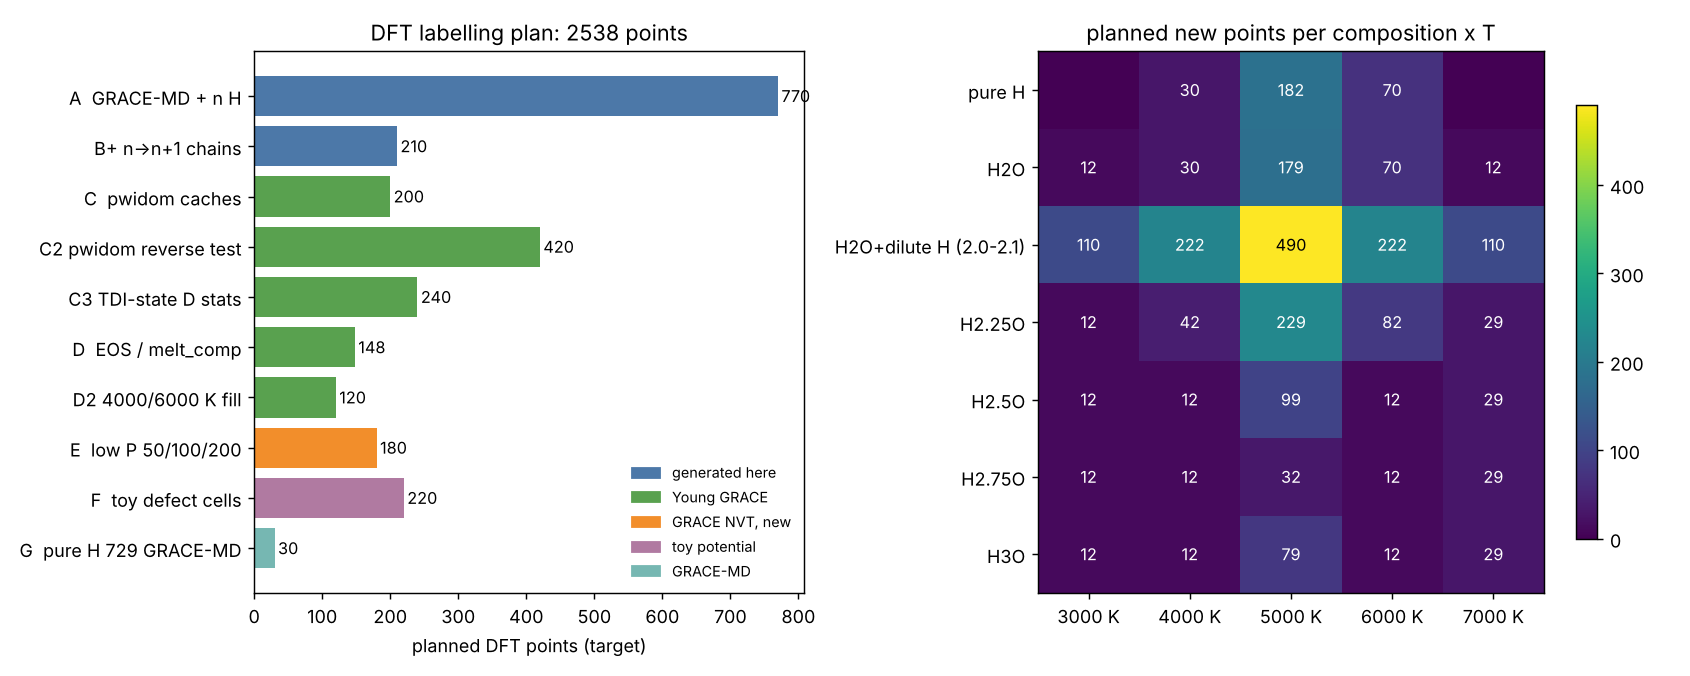
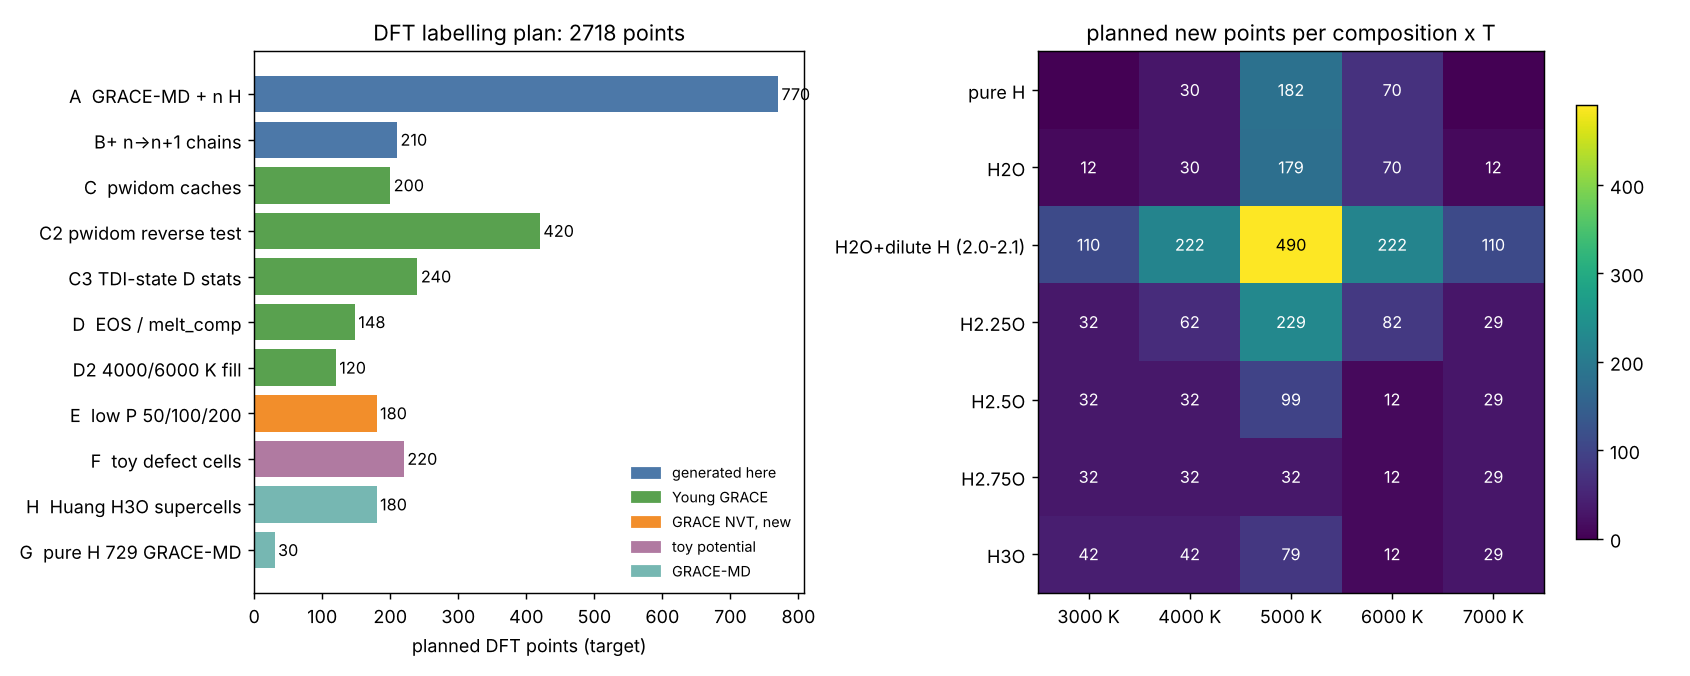
Plan: Huang H3O supercell set
Claude-Session: https://claude.ai/code/session_01RSfmJPtQE9hvbzGQwVVCJs

diff --git a/mlp_pipeline/plot_data_plan.py b/mlp_pipeline/plot_data_plan.py
@@ -17,6 +17,7 @@ PLAN = {
  "D2 4000/6000 K fill":      ("Young GRACE", {r: {4000: 12, 6000: 12} for r in (2, 3, 4, 5, 6)}),
  "E  low P 50/100/200":      ("GRACE NVT, new", {r: {3000: 12, 5000: 12, 7000: 12} for r in (1, 3, 4, 5, 6)}),
  "F  toy defect cells":      ("toy potential", {1: {5000: 47}, 3: {5000: 47}, 4: {5000: 47}, 6: {5000: 47}, 0: {5000: 32}}),
+ "H  Huang H3O supercells":  ("GRACE-MD", {6: {3000: 30, 4000: 30}, 5: {3000: 20, 4000: 20}, 4: {3000: 20, 4000: 20}, 3: {3000: 20, 4000: 20}}),
  "G  pure H 729 GRACE-MD":   ("GRACE-MD", {0: {5000: 30}}),
 }
 

diff --git a/docs/DFT_PLAN.md b/docs/DFT_PLAN.md
@@ -64,3 +64,7 @@ B+: chains at 4000 / 5000 / 6000 K x 300-600 GPa, 2 chains per state, ~210 point
 Hosts: tiers (train_l / valid_l) where they exist; elsewhere pick host frames from the Young pool with `young_select.py --as-hosts` and pass HOSTS_TRAIN / HOSTS_VALID to run_insertion_batch.sh (valid hosts must come from runs that are not in train_l).
 Below 300 GPa (50-200): E only (GRACE NVT at guessed volumes); insertions there come after E has produced hosts (build_insertion_set --hosts on the E trajectories).
 New total ~2,540 points (~5.6 four-node hours + 729-atom points).
+
+## Update 3: H  Huang H3O supercells (+ H2.75O / H2.5O / H2.25O channel variants)
+`build_h3o_supercells.py` from the static relaxations (runs/h3o_static/P<P>, H3O at 300-800 GPa, variants at 300-800): supercell of 360-392 atoms with the best-conditioned cell (min width ~7.5 A, not a skinny 3x2x1), frames: static, rattle x3, strain x4, defects x8, GRACE-MD at 1000/2000/3000/4000 K x3.
+27 relaxed structures x ~28 frames = ~750 candidates; label ~8 per structure = ~220 points. One pressure (--valid-P 450) goes to the validation side whole. Plan total ~2,760 points.
